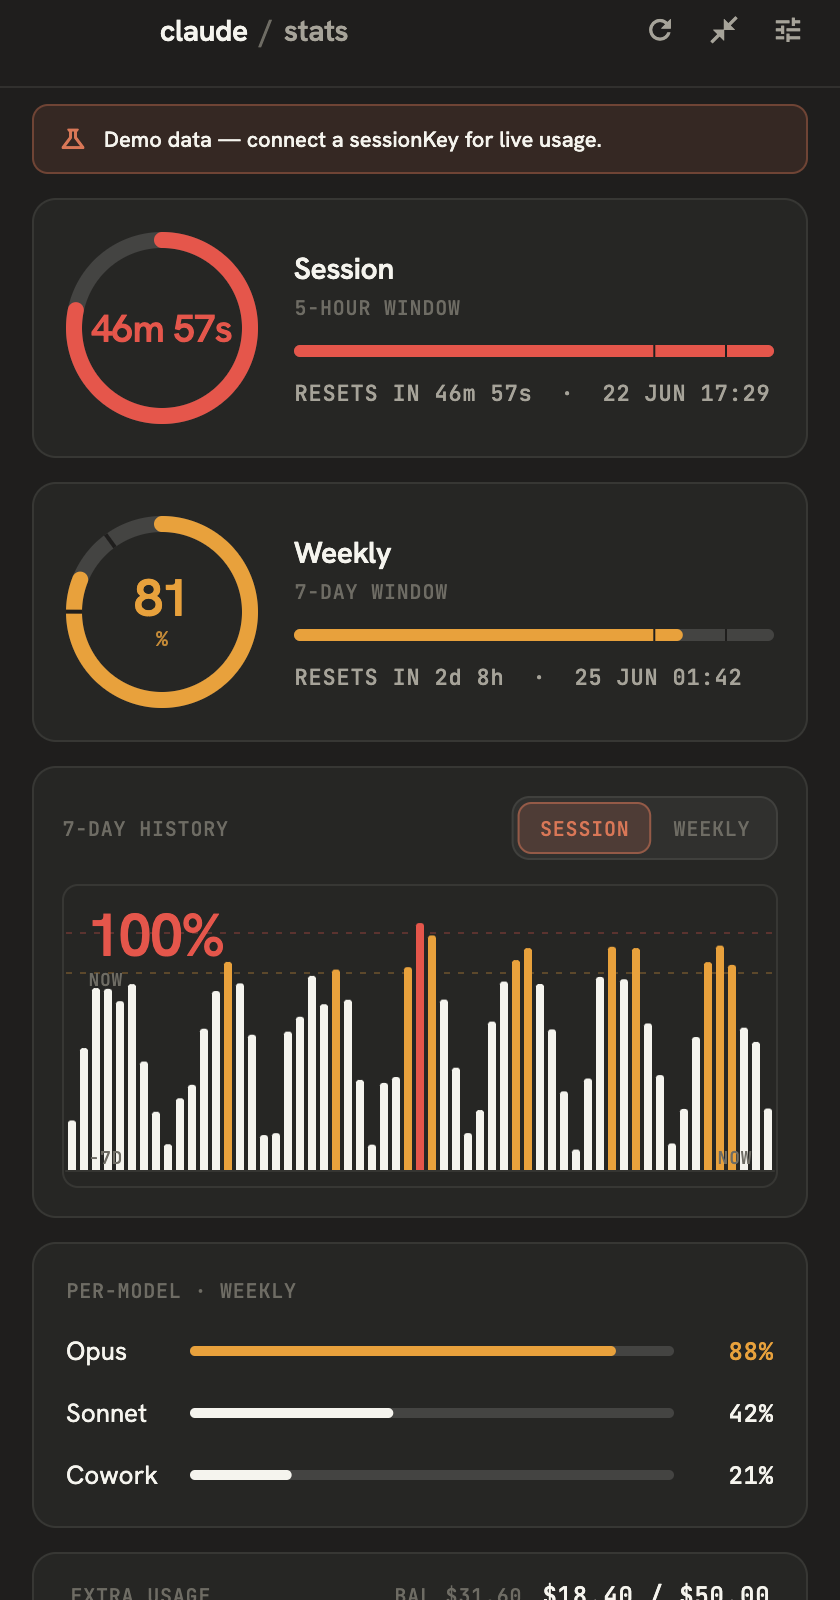
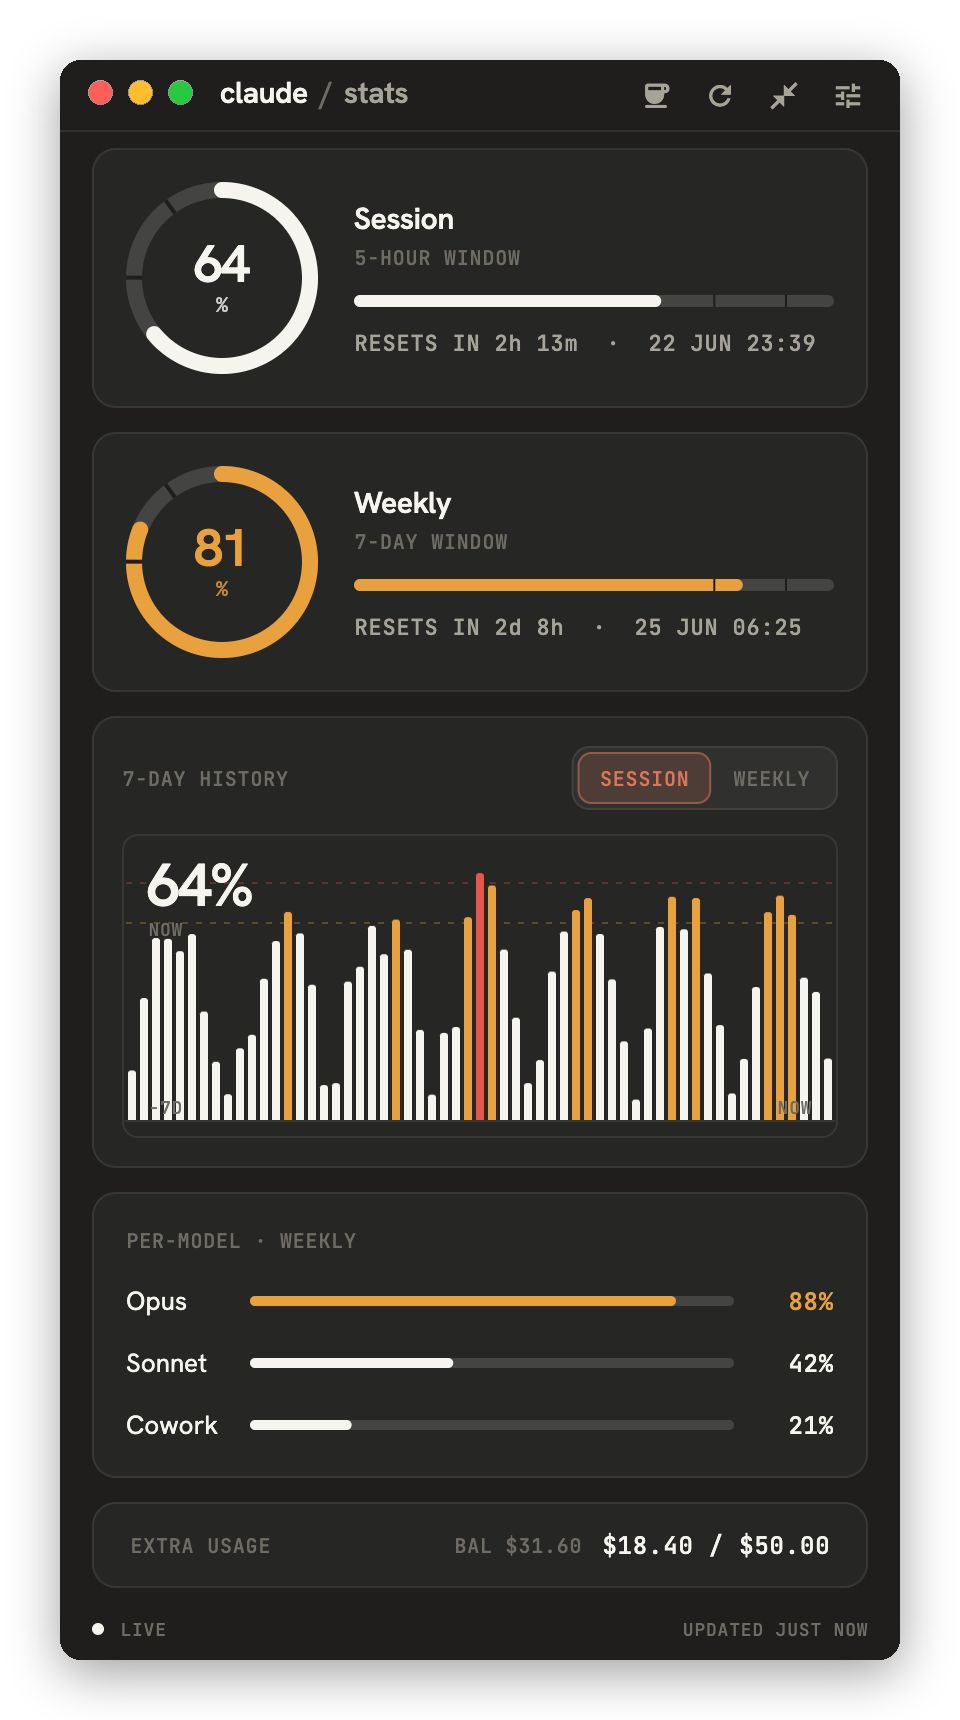
Add a Buy Me a Coffee link + refresh the README screenshot
- Title bar: a coffee button (alongside refresh/mini/settings) opening
  buymeacoffee.com/digitaljohn via the injected launcher (AppController.openUrl,
  which openDownloadUrl now reuses).
- The wordmark now scales-to-fit (FittedBox) so the title bar never overflows
  on a narrow window or when it gains buttons.
- README hero re-captured on the current design with macOS chrome composited
  in (rounded corners, traffic lights, soft shadow; transparent PNG). The demo
  toast is hidden and the footer reads LIVE via a screenshot-only dart-define.

165 tests, 100% line coverage.

diff --git a/test/ui/dashboard_screen_test.dart b/test/ui/dashboard_screen_test.dart
@@ -170,4 +170,28 @@ void main() {
 
     await tester.pumpWidget(const SizedBox());
   });
+
+  testWidgets('coffee button opens Buy Me a Coffee in the browser',
+      (tester) async {
+    await useTallSurface(tester);
+    final launched = <Uri>[];
+    final c = readyController(
+      mode: AppMode.demo,
+      usage: screenSnapshot(),
+      history: someHistory(),
+      urlLauncher: (u) async {
+        launched.add(u);
+        return true;
+      },
+    );
+    addTearDown(c.dispose);
+    await tester.pumpWidget(wrap(DashboardScreen(controller: c),
+        size: const Size(420, 1500)));
+
+    await tester.tap(find.widgetWithIcon(TitleBarButton, Icons.coffee_rounded));
+    await tester.pump(const Duration(milliseconds: 350)); // DragToMoveArea arena
+    expect(launched.single.toString(), 'https://www.buymeacoffee.com/digitaljohn');
+
+    await tester.pumpWidget(const SizedBox());
+  });
 }

diff --git a/lib/ui/dashboard_screen.dart b/lib/ui/dashboard_screen.dart
@@ -14,6 +14,13 @@ import 'widgets/chart_data.dart';
 import 'widgets/usage_ring.dart';
 import 'widgets/window_scaffold.dart';
 
+/// Support link surfaced in the title bar.
+const String _buyMeACoffeeUrl = 'https://www.buymeacoffee.com/digitaljohn';
+
+/// Screenshot helper: `--dart-define=hideDemoBanner=true` suppresses the demo
+/// banner for clean marketing captures. No effect on normal builds.
+const bool _hideDemoBanner = bool.fromEnvironment('hideDemoBanner');
+
 class DashboardScreen extends StatefulWidget {
   const DashboardScreen({super.key, required this.controller});
   final AppController controller;
@@ -32,9 +39,15 @@ class _DashboardScreenState extends State<DashboardScreen> {
   Widget build(BuildContext context) {
     final usage = c.usage;
     final s = c.settings;
+    final showDemoBanner = c.isDemo && !_hideDemoBanner;
     return WindowScaffold(
       titleBarColor: AppColors.ink,
       actions: [
+        TitleBarButton(
+          icon: Icons.coffee_rounded,
+          tooltip: 'Buy me a coffee',
+          onTap: () => c.openUrl(_buyMeACoffeeUrl),
+        ),
         TitleBarButton(
           icon: Icons.refresh,
           tooltip: 'Refresh',
@@ -68,9 +81,9 @@ class _DashboardScreenState extends State<DashboardScreen> {
                   ),
                   const SizedBox(height: 12),
                 ],
-                if (c.isDemo) const _Banner.demo(),
+                if (showDemoBanner) const _Banner.demo(),
                 if (c.error != null) _Banner.error(c.error!),
-                if (c.isDemo || c.error != null) const SizedBox(height: 12),
+                if (showDemoBanner || c.error != null) const SizedBox(height: 12),
                 if (s.compactMode)
                   _compact(usage, s)
                 else
@@ -431,7 +444,7 @@ class _DashboardScreenState extends State<DashboardScreen> {
           ),
         ),
         const SizedBox(width: 8),
-        Text(c.isDemo ? 'DEMO DATA' : 'LIVE',
+        Text((c.isDemo && !_hideDemoBanner) ? 'DEMO DATA' : 'LIVE',
             style: AppText.mono(AppColors.textFaint, size: 9)),
         const Spacer(),
         UpdatedAgo(updated: c.lastUpdated),

diff --git a/test/state/app_controller_test.dart b/test/state/app_controller_test.dart
@@ -365,5 +365,20 @@ void main() {
       await c.openDownloadUrl();
       expect(launched.single.toString(), 'https://gh/rel');
     });
+
+    test('openUrl launches an arbitrary url', () async {
+      final launched = <Uri>[];
+      final c = AppController(
+        store: FakeStore(),
+        api: FakeApi(),
+        urlLauncher: (u) async {
+          launched.add(u);
+          return true;
+        },
+      );
+      addTearDown(c.dispose);
+      await c.openUrl('https://example.com/x');
+      expect(launched.single.toString(), 'https://example.com/x');
+    });
   });
 }

diff --git a/lib/ui/widgets/window_scaffold.dart b/lib/ui/widgets/window_scaffold.dart
@@ -95,8 +95,18 @@ class _TitleBar extends StatelessWidget {
             children: [
               // Clearance for the native traffic-light cluster (~70px wide).
               const SizedBox(width: 80),
-              title,
-              const Spacer(),
+              // Take the slack and scale the wordmark down if the bar gets tight
+              // (narrow window / extra action buttons) so it never overflows.
+              Expanded(
+                child: Align(
+                  alignment: Alignment.centerLeft,
+                  child: FittedBox(
+                    fit: BoxFit.scaleDown,
+                    alignment: Alignment.centerLeft,
+                    child: title,
+                  ),
+                ),
+              ),
               // Space the action buttons apart so their hover fills read as
               // distinct pills. Nudge the cluster down ~2px: the icon glyphs are
               // taller than the wordmark's cap height, so box-centring leaves

diff --git a/lib/state/app_controller.dart b/lib/state/app_controller.dart
@@ -279,12 +279,15 @@ class AppController extends ChangeNotifier {
     notifyListeners();
   }
 
+  /// Opens an arbitrary external URL in the default browser.
+  Future<void> openUrl(String url) => _launchUrl(Uri.parse(url));
+
   /// Opens the available release's page in the default browser. No-op if there
   /// is no pending update.
   Future<void> openDownloadUrl() async {
     final info = availableUpdate;
     if (info == null) return;
-    await _launchUrl(Uri.parse(info.url));
+    await openUrl(info.url);
   }
 
   @override